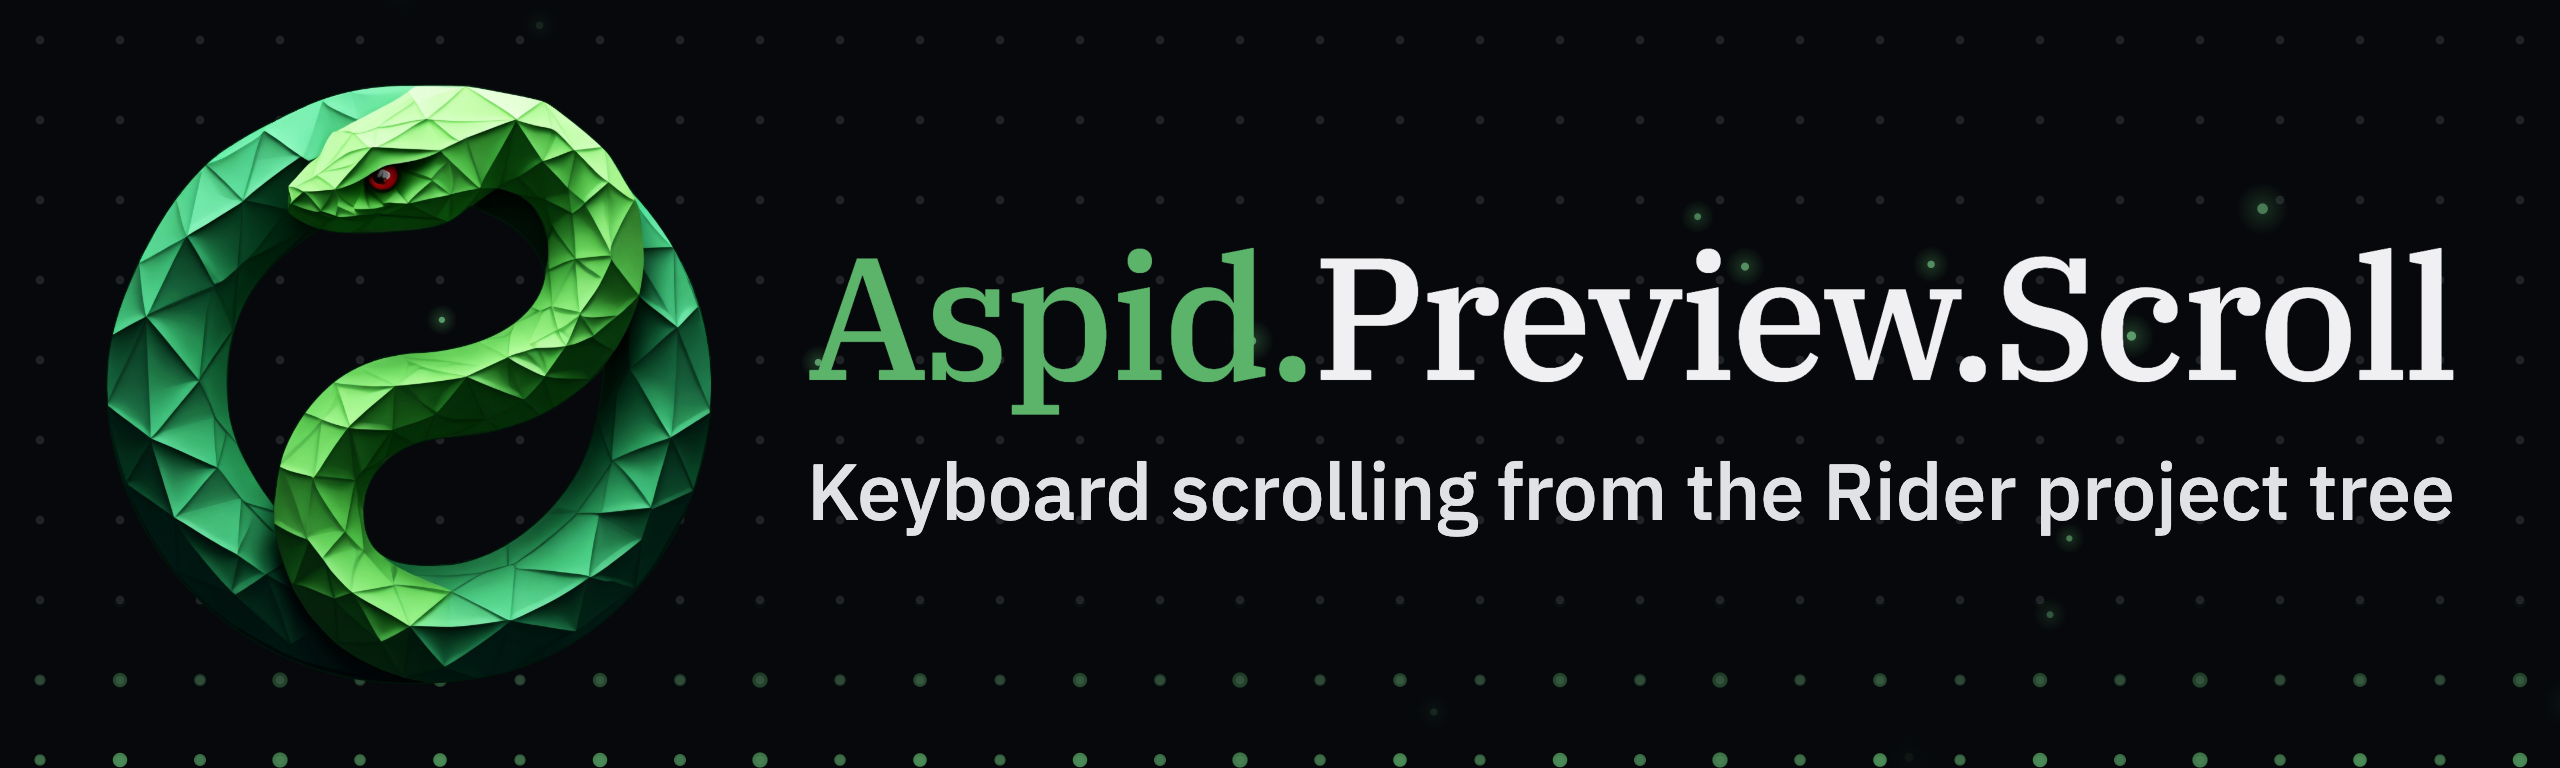
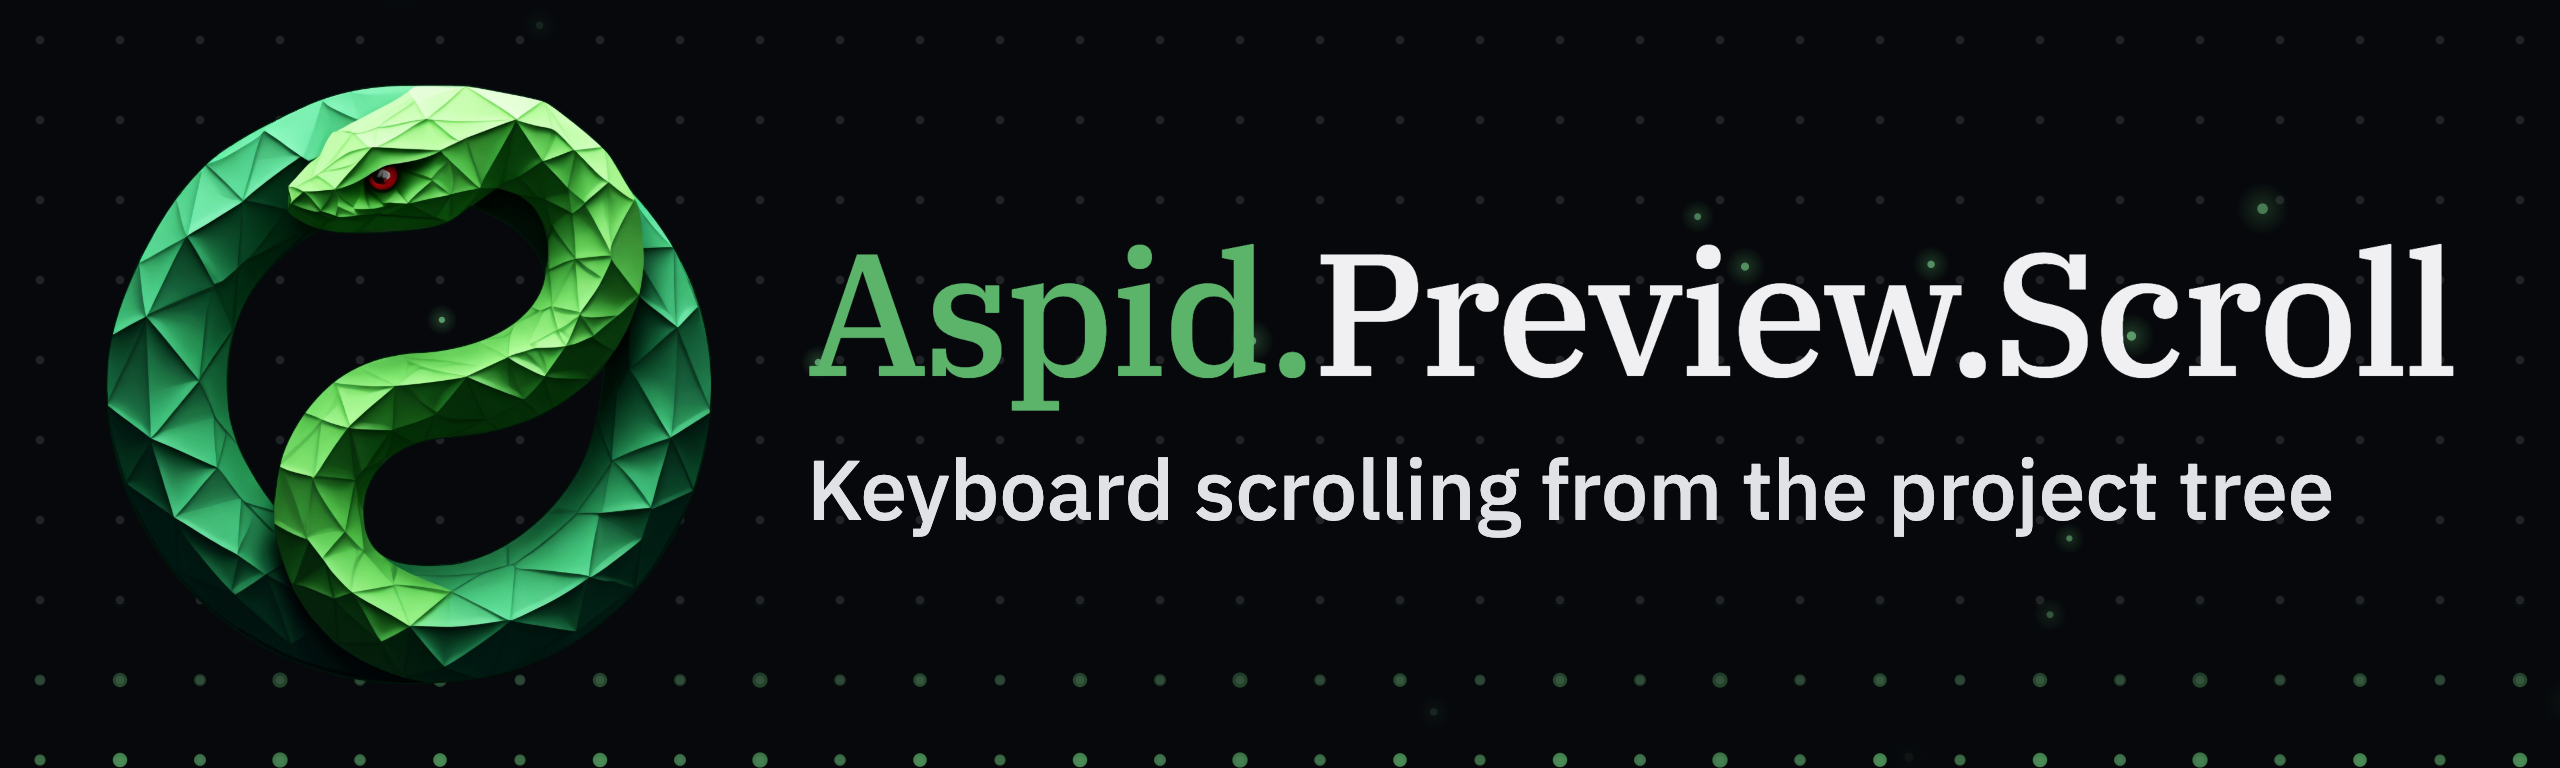
docs: clarify IntelliJ Platform compatibility and Rider verification
- Use project tree terminology and platform-neutral artwork.
- Document the IDE and scope of the completed checks.

diff --git a/README.md b/README.md
@@ -1,23 +1,27 @@
 <picture>
   <source srcset="docs/images/banner.webp" type="image/webp" />
-  <img src="docs/images/banner.png" alt="Aspid.Preview.Scroll — Keyboard scrolling from the Rider project tree" width="100%" />
+  <img src="docs/images/banner.png" alt="Aspid.Preview.Scroll — Keyboard scrolling from the project tree" width="100%" />
 </picture>
 
-[![IDE: JetBrains Rider](docs/images/rider.svg)](#installation)
+[![JetBrains IDEs on the IntelliJ Platform](docs/images/platform.svg)](#compatibility)
 [![Plugin version: 0.2.0](docs/images/version.svg)](build.gradle.kts)
 
-When you browse files with the arrow keys in Rider’s **Explorer**, a file may be longer than the editor window, or a line may run past its right edge. If you switch to the editor to scroll, you then have to switch back to the tree to select the next file.
+When you browse files with the arrow keys in the **Project** tool window (**Explorer** in Rider), a file may be longer than the editor window, or a line may run past its right edge. If you switch to the editor to scroll, you then have to switch back to the tree to select the next file.
 
-**Aspid.Preview.Scroll** lets you scroll the selected file vertically or horizontally while keyboard focus stays in Explorer. When you’ve seen enough, press **↓** to preview the next file.
+**Aspid.Preview.Scroll** lets you scroll the selected file vertically or horizontally while keyboard focus stays in the tree. When you’ve seen enough, press **↓** to preview the next file.
+
+## Compatibility
+
+Designed for JetBrains IDEs built on the IntelliJ Platform. Verification so far is limited to **Rider 2026.3 on macOS**, where the plugin was built and its six packaged scroll actions were checked.
 
 ## Installation
 
 The first release is pending. Once published, you can install the plugin either way:
 
-- **[JetBrains Marketplace](https://plugins.jetbrains.com/search?search=Aspid.Preview.Scroll)** — in Rider, open **Settings → Plugins → Marketplace**, search for **Aspid.Preview.Scroll**, and select **Install**.
-- **[GitHub Releases](https://github.com/VPDPersonal/Aspid.Preview.Scroll/releases)** — download the plugin ZIP from the release assets. In Rider, open **Settings → Plugins → ⚙ → Install Plugin from Disk…** and select the ZIP.
+- **[JetBrains Marketplace](https://plugins.jetbrains.com/search?search=Aspid.Preview.Scroll)** — open **Settings → Plugins → Marketplace**, search for **Aspid.Preview.Scroll**, and select **Install**.
+- **[GitHub Releases](https://github.com/VPDPersonal/Aspid.Preview.Scroll/releases)** — download the plugin ZIP from the release assets. Open **Settings → Plugins → ⚙ → Install Plugin from Disk…** and select the ZIP.
 
-To preview files as you move through the tree, enable **Explorer → ⋮ → Behavior → Enable Preview Tab**. You can also scroll files already open in regular tabs.
+To preview files as you move through the tree, open the project tree’s options menu and turn on **Enable Preview Tab**. You can also scroll files already open in regular tabs.
 
 ## Shortcuts
 
@@ -32,7 +36,7 @@ Hold **⌘ Command + ⌥ Option + ⇧ Shift** on macOS or **Ctrl + Alt** on Wind
 <details>
 <summary>Change a shortcut or resolve a conflict</summary>
 
-Open <b>Settings → Keymap → Plugins → Aspid.Preview.Scroll</b>. Right-click a scroll action and choose <b>Add Keyboard Shortcut</b>. Rider shows other actions using the same keys. You can also use this to choose keys on a keyboard without a numeric keypad.
+Open <b>Settings → Keymap → Plugins → Aspid.Preview.Scroll</b>. Right-click a scroll action and choose <b>Add Keyboard Shortcut</b>. The IDE shows other actions using the same keys. You can also use this to choose keys on a keyboard without a numeric keypad.
 
 </details>
 
@@ -45,7 +49,7 @@ The plugin uses the open editor for the selected file. If that file has no open 
 
 ## Help and support
 
-When reporting a shortcut issue, include your Rider and plugin versions, OS, active keymap, and the Explorer view where it happened.
+When reporting a shortcut issue, include your IDE name and version, plugin version, OS, active keymap, and the project view where it happened.
 
 [**Open an issue**](https://github.com/VPDPersonal/Aspid.Preview.Scroll/issues) · [Star on GitHub](https://github.com/VPDPersonal/Aspid.Preview.Scroll)
 
